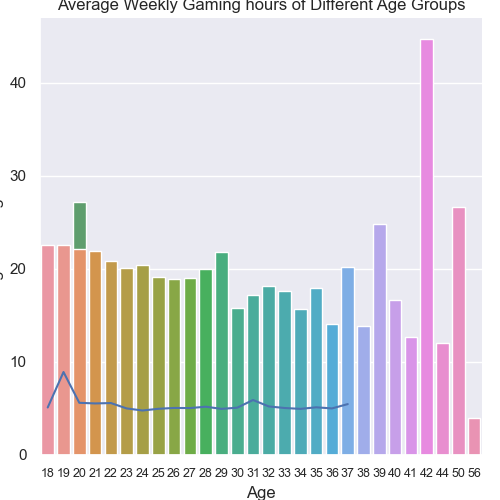
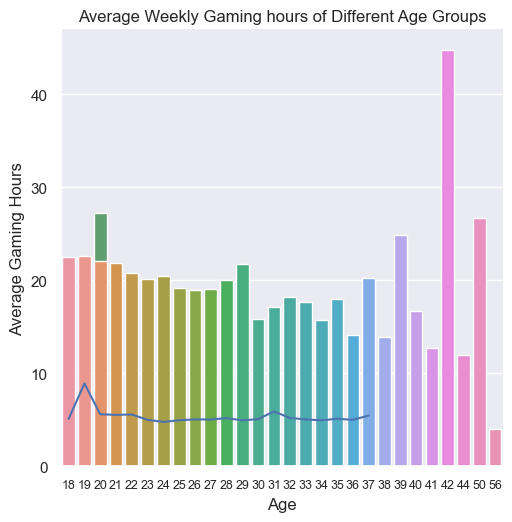
updated visualization finalizations

Changed region(s): [[0.0, 0.0, 0.99, 1.0], [0.03, 0.15, 0.09, 0.21], [0.03, 0.9, 0.06, 0.93]]

diff --git a/data_visualizations.py b/data_visualizations.py
@@ -105,7 +105,7 @@ def hours_game_age(data):
     plt.ylabel("Average Gaming Hours")
     plt.title("Average Weekly Gaming hours of Different Age Groups")
     graph.set_xticklabels(graph.get_xticklabels(), fontsize=9)
-    plt.savefig("age-gaming.png")
+    plt.savefig("age-gaming.png", bbox_inches='tight')
 
 
 def narcissism_gaming_hours(df):
